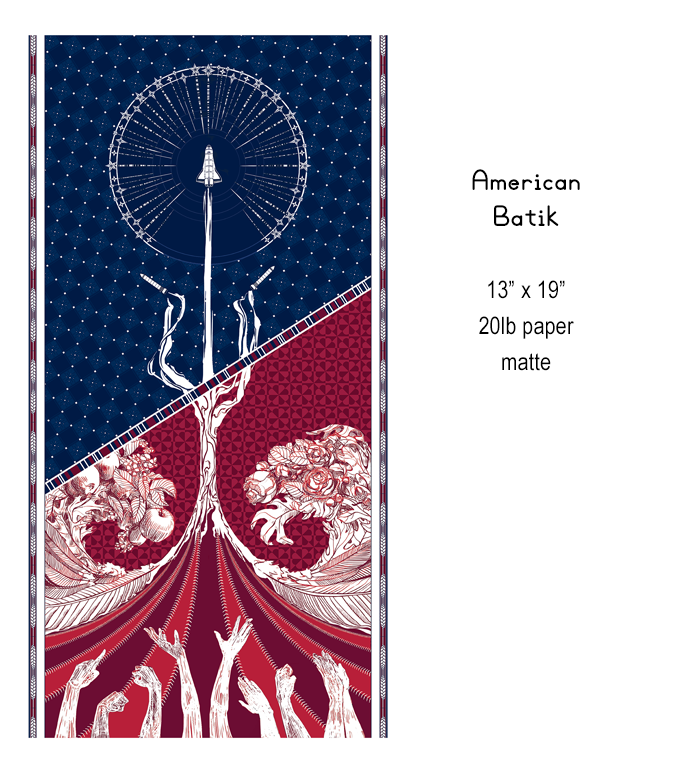
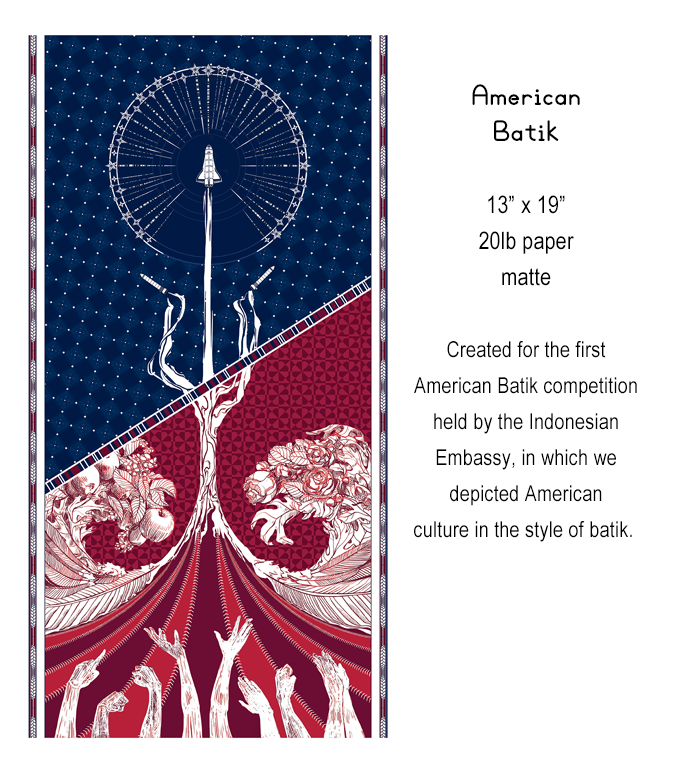
Add new full descriptions

Changed region(s): [[0.6222, 0.2154, 0.9333, 0.6462], [0.6844, 0.0923, 0.8711, 0.1846], [0.6222, 0.6462, 0.9333, 0.7077]]

diff --git a/prints.html b/prints.html
@@ -51,7 +51,7 @@
           <th colspan="3"><img src="./images/Description Bars/Prints/description_bar_landscapes_blue.png"></img></th>
         </tr>
         <tr class="printRow">
-		　　<td><a data-lightbox="landscapes" href="./images/Prints/Landscapes/landscape_antarctica_2_thumb.png"><img src="./images/Prints/Landscapes/landscape_antarctica_2_thumb.png" data-lightbox="landscapes"/></a></td>
+		　　<td><a data-lightbox="landscapes" href="./images/Prints/Landscapes/landscape_antarctica_2_full_description.png"><img src="./images/Prints/Landscapes/landscape_antarctica_2_thumb.png" data-lightbox="landscapes"/></a></td>
 		  <td><a data-lightbox="landscapes" href="./images/Prints/Landscapes/landscape_antarctica_1_full_description.png"><img src="./images/Prints/Landscapes/landscape_antarctica_1_thumb.png" data-lightbox="landscapes"/></a></td>
           <td><a data-lightbox="landscapes" href="./images/Prints/Landscapes/landscape_cherry_blossoms_full.png"><img src="./images/Prints/Landscapes/landscape_cherry_blossoms_thumb.png" data-lightbox="landscapes"/></a></td>
         </tr>

diff --git a/paintings.html b/paintings.html
@@ -31,7 +31,7 @@
           <th colspan="3"><img src="./images/Description Bars/Paintings/description_bar_landscapes.png"></img></th>
         </tr>
         <tr class="printRow">
-		  <td><a data-lightbox="landscapes" href="./images/Paintings/Landscapes/landscape_antarctica_2_thumb.png"><img src="./images/Paintings/Landscapes/landscape_antarctica_2_thumb.png" data-lightbox="landscapes"/></a></td>
+		  <td><a data-lightbox="landscapes" href="./images/Paintings/Landscapes/landscape_antarctica_2_full.png"><img src="./images/Paintings/Landscapes/landscape_antarctica_2_thumb.png" data-lightbox="landscapes"/></a></td>
           <td><a data-lightbox="landscapes" href="./images/Paintings/Landscapes/landscape_antarctica_1_full.png"><img src="./images/Paintings/Landscapes/landscape_antarctica_1_thumb.png" data-lightbox="landscapes"/></a></td>
           <td><a data-lightbox="landscapes" href="./images/Prints/blank_print.png"><img src="./images/Prints/blank_print.png" data-lightbox="landscapes"/></a></td>
         </tr>
